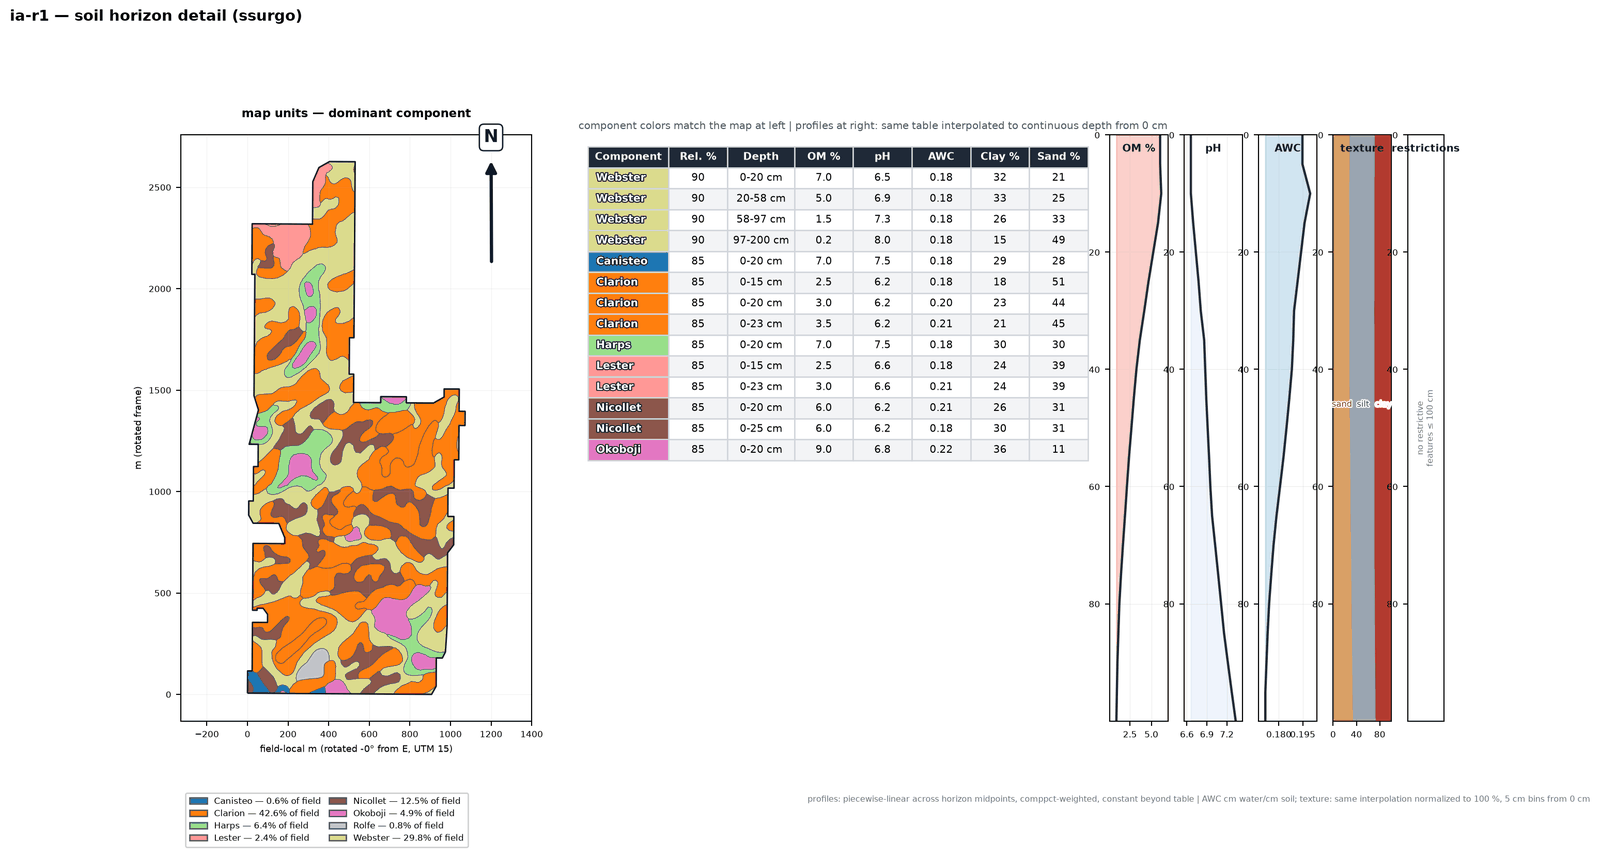
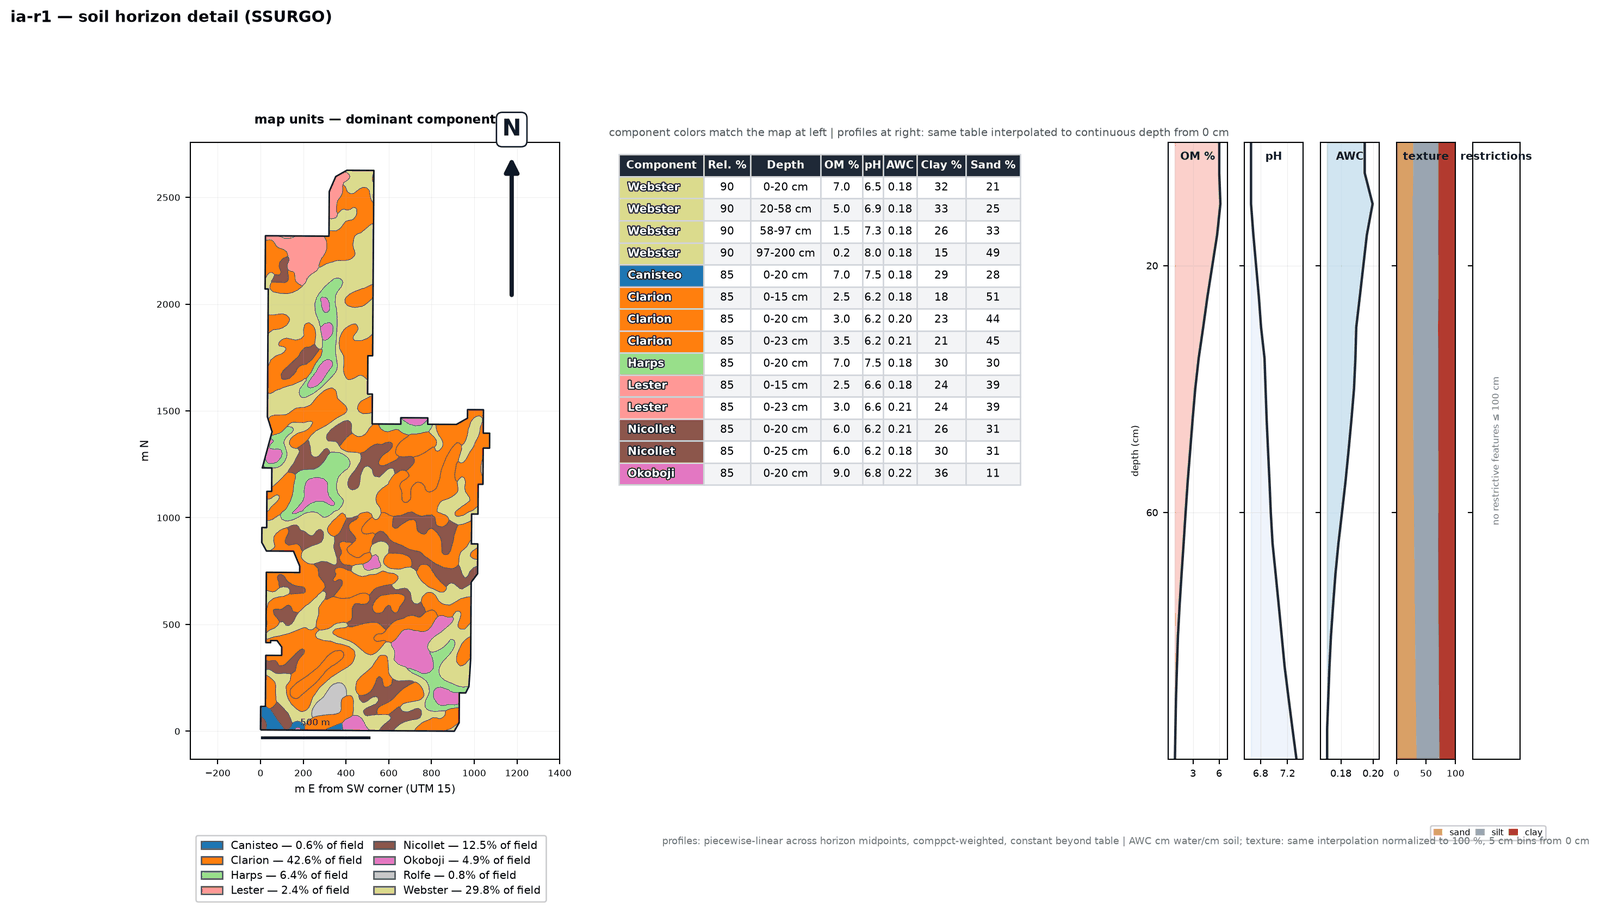
horizon figure legibility overhaul (vision-QC SHIP on ia/on/il)
- fit-rotate dead-zone 0.5 deg (no more '-0 deg' labels); canonical signed angle
- rotation callout + 500 m scale bar on every map panel; arrow/box enlarged
- texture stack: real 3-swatch legend replaces tiny inline text
- shared depth axis on first profile panel only; numeric-column xtick regime
- table: per-cell width padding (mpl 3.11 API), Sand % no longer clips
- restriction strip widened (0.8 ratio) so its caption stays inside
- footnote relocated to mid-left; proper nouns keep capitalization
- references/field-map-frame.md: ship checklist appended

diff --git a/my-farm-advisor/data-pipeline/src/scripts/reporting/generate_soil_texture_triangles.py b/my-farm-advisor/data-pipeline/src/scripts/reporting/generate_soil_texture_triangles.py
@@ -287,7 +287,7 @@ def render(csv_path: Path | None, label: str, out: Path, source_note: str = "SSU
                 "size = field area; star = area-weighted mean")
         n_note = f"{len(comp)} pins"
     ax.set_title(
-        f"{label} — soil texture classes (topsoil, {source_note.lower()})",
+        f"{label} — soil texture classes (topsoil, {source_note})",
         fontsize=10.5, weight="bold", pad=14, loc="left",
     )
     ax.text(
@@ -468,7 +468,9 @@ def render_horizon_table(csv_path: Path, label: str, out: Path, source_note: str
         # canonical tilt in (-90, 90]: a longer rotation would apply the same
         # long-edge alignment but flip north below the horizon
         _rot = ((_rot + 90.0) % 180.0) - 90.0
-        if abs(_rot) > 0.5:
+        if abs(_rot) < 0.5:
+            _rot = 0.0
+        if _rot != 0.0:
             _gu = _gu.assign(geometry=_gu.geometry.map(lambda g: _aff.rotate(g, -_rot, origin=(0, 0))))
             _x0, _y0, _, _ = _gu.total_bounds
             _gu = _gu.assign(geometry=_gu.geometry.translate(xoff=-_x0, yoff=-_y0))
@@ -479,30 +481,43 @@ def render_horizon_table(csv_path: Path, label: str, out: Path, source_note: str
         _gu.dissolve().boundary.plot(ax=ax_m, color="#111827", lw=1.1)
         _axlab = (f"m E from SW corner (UTM {_zone})" if _rot == 0.0 else
                   f"field-local m (rotated {_rot:+.0f}\u00b0 from E, UTM {_zone})")
-        ax_m.set_xlabel(_axlab, fontsize=6.8)
-        ax_m.set_ylabel("m N" if _rot == 0.0 else "m (rotated frame)", fontsize=6.8)
+        ax_m.set_xlabel(_axlab, fontsize=7.6)
+        ax_m.set_ylabel("m N" if _rot == 0.0 else "m (rotated frame)", fontsize=7.6)
+        ax_m.tick_params(labelsize=7.2)
         ax_m.tick_params(labelsize=6.4)
         ax_m.grid(alpha=0.18, lw=0.4)
         # north arrow, top-right, boxed for contrast; the geometry was rotated
         # CW by _rot, so true north in the panel points (sin rot, cos rot)
         _rad = _math.radians(_rot)
         _dx, _dy = _math.sin(_rad), _math.cos(_rad)
-        _cx, _cy, _r = 0.885, 0.855, 0.105
+        _cx, _cy, _r = 0.87, 0.845, 0.135
         ax_m.annotate("", xy=(_cx + _r * _dx, _cy + _r * _dy),
                       xytext=(_cx - _r * 0.72 * _dx, _cy - _r * 0.72 * _dy),
                       xycoords="axes fraction",
-                      arrowprops=dict(arrowstyle="-|>", lw=2.4, color="#111827",
-                                      mutation_scale=16))
-        ax_m.text(_cx + _r * 1.34 * _dx, _cy + _r * 1.34 * _dy, "N",
-                  transform=ax_m.transAxes, fontsize=13, fontweight="bold",
+                      arrowprops=dict(arrowstyle="-|>", lw=3.0, color="#111827",
+                                      mutation_scale=20))
+        ax_m.text(_cx + _r * 1.30 * _dx, _cy + _r * 1.30 * _dy, "N",
+                  transform=ax_m.transAxes, fontsize=16, fontweight="bold",
                   ha="center", va="center", color="#111827",
                   bbox=dict(boxstyle="round,pad=0.25", fc="white", ec="#111827", lw=1.0))
+        if _rot != 0.0:
+            ax_m.text(0.02, 0.98, f"field rotated {_rot:+.0f}\u00b0 to fit — N shown by arrow",
+                      transform=ax_m.transAxes, fontsize=6.8, style="italic",
+                      color="#374151", va="top")
+        # 500 m scale bar (axes-x / data-y blend so the tick length is honest)
+        import matplotlib.transforms as _mt
+        _tr = _mt.blended_transform_factory(ax_m.transData, ax_m.transAxes)
+        _x_lo = ax_m.get_xlim()[0]
+        ax_m.plot([_x_lo + 60, _x_lo + 560], [0.035, 0.035], transform=_tr,
+                  color="#111827", lw=2.0, clip_on=False)
+        ax_m.text(_x_lo + 310, 0.055, "500 m", transform=_tr, fontsize=6.6,
+                  ha="center", color="#111827")
         ax_m.set_title("map units — dominant component", fontsize=8.6, weight="bold", pad=13)
         _hand = [mpatches.Patch(facecolor=_col[n], edgecolor="#4b5563",
                                 label=f"{n} — {float(_pct.get(n, 0)):.1f}% of field")
                  for n in _names if n in _col]
         ax_m.set_aspect("equal", adjustable="datalim")
-        ax_m.legend(handles=_hand, fontsize=6.4, loc="upper left",
+        ax_m.legend(handles=_hand, fontsize=7.4, loc="upper left",
                     bbox_to_anchor=(0.0, -0.115), ncol=2, frameon=True, framealpha=0.95,
                     borderpad=0.5, labelspacing=0.4, columnspacing=0.9)
     cols = ["Component", "Rel. %", "Depth", "OM %", "pH", "AWC", "Clay %", "Sand %"]
@@ -516,7 +531,13 @@ def render_horizon_table(csv_path: Path, label: str, out: Path, source_note: str
     ]
     tbl = ax_t.table(cellText=cells, colLabels=cols, loc="upper left", cellLoc="center")
     tbl.auto_set_font_size(False); tbl.set_fontsize(7.7)
-    tbl.auto_set_column_width(col=(0, 2))
+    tbl.auto_set_column_width(col=tuple(range(len(cols))))
+    # autosize fits the TEXT exactly — numbers touching column borders read as
+    # merged columns; every numeric column gets 35 % slack (mpl>=3.11: widths
+    # live on the cells, not on the Table)
+    for (row, _c), cell in tbl.get_celld().items():
+        if _c >= 3:
+            cell.set_width(cell.get_width() * 1.35)
     tbl.scale(0.97, 1.28)
     for (row, col), cell in tbl.get_celld().items():
         cell.set_edgecolor("#d1d5db")
@@ -535,7 +556,7 @@ def render_horizon_table(csv_path: Path, label: str, out: Path, source_note: str
         elif col == 0:
             cell.set_text_props(ha="left")
     fig.suptitle(
-        f"{label} — soil horizon detail ({source_note.lower()})",
+        f"{label} — soil horizon detail ({source_note})",
         fontsize=11, weight="bold", x=0.02, ha="left", y=1.045,
     )
     ax_t.text(0, 1.01, "component colors match the map at left | profiles at right: same "
@@ -582,7 +603,7 @@ def render_horizon_table(csv_path: Path, label: str, out: Path, source_note: str
     n_cols2 = len(have) + (1 if has_tex else 0) + (1 if (has_restr or known_restr) else 0)
     ratios2 = [1] * (len(have) + (1 if has_tex else 0))
     if has_restr or known_restr:
-        ratios2.append(0.62)
+        ratios2.append(0.80)
     gs2 = gridspec.GridSpecFromSubplotSpec(1, n_cols2, subplot_spec=gs[-1], wspace=0.30,
                                            width_ratios=ratios2)
     for i, (name, y, cmap) in enumerate(have):
@@ -594,9 +615,14 @@ def render_horizon_table(csv_path: Path, label: str, out: Path, source_note: str
         ax.set_yticks([0, 20, 40, 60, 80])  # 100 label collides with xticks
         ax.text(0.5, 0.985, name, transform=ax.transAxes, ha="center", va="top",
                 fontsize=7.6, weight="bold", color="#111827")
-        ax.tick_params(labelsize=6.6)
+        ax.tick_params(labelsize=6.8)
+        ax.set_yticks([20, 60])
+        if i > 0:
+            ax.set_yticklabels([])
+        else:
+            ax.set_ylabel("depth (cm)", fontsize=6.4)
         from matplotlib.ticker import MaxNLocator
-        ax.xaxis.set_major_locator(MaxNLocator(3))
+        ax.xaxis.set_major_locator(MaxNLocator(2))
         ax.grid(alpha=0.25, lw=0.4)
     if has_tex:
         M = np.vstack([tex_curves["sand"], tex_curves["silt"], tex_curves["clay"]])
@@ -607,23 +633,25 @@ def render_horizon_table(csv_path: Path, label: str, out: Path, source_note: str
         axx.fill_betweenx(bins, 0, s, color="#d9a066")
         axx.fill_betweenx(bins, s, s + si, color="#9aa5b1")
         axx.fill_betweenx(bins, s + si, 100, color="#b23a2f")
-        # key sits mid-profile; use the fraction AT that depth, not the deepest bin
-        for depth, frac, txt, cc in ((46, s[9] / 2, "sand", "#7c4a12"),
-                                     (46, (s[9] + si[9] / 2), "silt", "#374151"),
-                                     (46, (s[9] + si[9] + c[9] / 2), "clay", "#fef2f2")):
-            axx.text(frac, depth, txt, fontsize=6.2, color=cc, ha="center", va="center",
-                     path_effects=[pe.withStroke(linewidth=1.6, foreground="white")])
         axx.set_ylim(100, 0); axx.set_xlim(0, 100)
-        axx.set_yticks([0, 20, 40, 60, 80])
+        axx.set_yticks([20, 60]); axx.set_yticklabels([])
         from matplotlib.ticker import MaxNLocator as _M
-        axx.xaxis.set_major_locator(_M(3))
+        axx.xaxis.set_major_locator(_M(2))
+        from matplotlib.patches import Patch as _P
+        axx.legend(handles=[_P(facecolor="#d9a066", label="sand"),
+                            _P(facecolor="#9aa5b1", label="silt"),
+                            _P(facecolor="#b23a2f", label="clay")],
+                   fontsize=6.2, loc="upper left", bbox_to_anchor=(0.5, -0.10),
+                   ncol=3, handlelength=1.0, columnspacing=0.6, borderpad=0.35,
+                   frameon=True, framealpha=0.95)
         axx.text(0.5, 0.985, "texture", transform=axx.transAxes, ha="center", va="top",
                  fontsize=7.6, weight="bold", color="#111827")
         axx.tick_params(labelsize=6.6)
     if has_restr or known_restr:
         axr = fig.add_subplot(gs2[n_cols2 - 1])
         axr.set_ylim(100, 0); axr.set_xlim(0, 1)
-        axr.set_yticks([0, 20, 40, 60, 80]); axr.tick_params(labelsize=6.6)
+        axr.set_yticks([20, 60]); axr.tick_params(labelsize=6.8)
+        axr.set_yticklabels([])  # depth numbers live on the first profile panel only
         axr.set_xticks([])
         axr.text(0.5, 0.985, "restrictions", transform=axr.transAxes, ha="center",
                  va="top", fontsize=7.6, weight="bold", color="#111827")
@@ -640,7 +668,7 @@ def render_horizon_table(csv_path: Path, label: str, out: Path, source_note: str
                 _xl = {0: 0.30, 1: 0.70}.get(_i % 2, 0.5)
                 _lab = f"{kind} {top:.0f}–{bot:.0f} cm"
                 axr.text(_xl, max(top, (top + bot_disp) / 2 - 3), _lab, rotation=90,
-                         fontsize=5.4, color=_restr_color(kind), ha="center",
+                         fontsize=6.0, color=_restr_color(kind), ha="center",
                          va="center", weight="bold",
                          path_effects=[pe.withStroke(linewidth=1.4, foreground="white")])
                 if bot > 100:  # band continues below the chart
@@ -648,14 +676,14 @@ def render_horizon_table(csv_path: Path, label: str, out: Path, source_note: str
                                  arrowprops=dict(arrowstyle="-|>", lw=1.0,
                                                  color=_restr_color(kind)))
             axr.text(0.5, 0.015, "hatched = restrictive layer",
-                     transform=axr.transAxes, ha="center", va="bottom", fontsize=5.8)
+                     transform=axr.transAxes, ha="center", va="bottom", fontsize=5.9)
         else:
-            axr.text(0.5, 50, "no restrictive\nfeatures \u2264 100 cm", rotation=90,
-                     fontsize=6.0, color="#6b7280", ha="center", va="center")
-    fig.text(0.99, 0.004, "profiles: piecewise-linear across horizon midpoints, comppct-weighted, "
+            axr.text(0.5, 50, "no restrictive features \u2264 100 cm", rotation=90,
+                     fontsize=6.6, color="#6b7280", ha="center", va="center")
+    fig.text(0.40, 0.004, "profiles: piecewise-linear across horizon midpoints, comppct-weighted, "
              "constant beyond table | AWC cm water/cm soil; texture: same interpolation "
              "normalized to 100 %, 5 cm bins from 0 cm",
-             fontsize=6.0, color="#6b7280", ha="right")
+             fontsize=6.8, color="#6b7280", ha="left")
     out.parent.mkdir(parents=True, exist_ok=True)
     fig.savefig(out, dpi=190, bbox_inches="tight", facecolor="white")
     plt.close(fig)
@@ -768,7 +796,7 @@ def render_property_map(csv_path: Path, label: str, out: Path, source_note: str 
                      fontsize=8.6, weight="bold", pad=13)
         ax.set_xticks([]); ax.set_yticks([])
         ax.set_xlabel(""); ax.set_ylabel("")  # graticule labels only crowd the grid
-    fig.suptitle(f"{label} — whole-field weighted soil properties (topsoil, {source_note.lower()})",
+    fig.suptitle(f"{label} — whole-field weighted soil properties (topsoil, {source_note})",
                  fontsize=11, weight="bold", x=0.02, ha="left", y=1.075)
     for axx in axes[len(panels):]:
         axx.axis("off")

diff --git a/my-farm-advisor/data-pipeline/references/field-map-frame.md b/my-farm-advisor/data-pipeline/references/field-map-frame.md
@@ -72,3 +72,23 @@ def orient_field(gdf, long_axis: str = "horizontal") -> tuple:
 - Live implementation: `src/scripts/reporting/generate_soil_texture_triangles.py`
   (`render_horizon_table` map panel: UTM pin + boxed N arrow; rotation helper
   above is the extension contract).
+
+## Ship checklist (vision-QC enforced, 2026-11-05)
+
+- Rotation canonicalized to (-90, +90] with a **0.5° dead-zone** — a −0° field
+  is an unrotated field; it gets the plain `m E from SW corner` label, a
+  straight arrow, and NO callout.
+- When rotated: italic callout inside the panel, top-left,
+  `field rotated ±NN° to fit — N shown by arrow`; axis states the same angle.
+- **500 m scale bar** always (blended data-x/axes-y transform so the length is
+  honest after aspect equal + datalim).
+- Arrow: r=0.135 axes-fraction, lw 3.0, boxed N at fontsize 16, tip at
+  (cx + r·sin rot, cy + r·cos rot).
+- Table: `auto_set_column_width(all)` then **×1.35 width on every numeric
+  column via `cell.set_width`** (mpl ≥ 3.11 moved widths onto cells;
+  `Table.alter`/`_argW` are gone). Without the slack, adjacent values read as
+  merged columns ("6.50.18").
+- Depth axis lives on the FIRST profile panel only (ticks 20/60, no bottom
+  100 label — it collides with xtick labels); texture strip carries a real
+  3-swatch sand/silt/clay legend below the panel; the method footnote is
+  LEFT-aligned at x=0.40 so it never runs under that legend.
